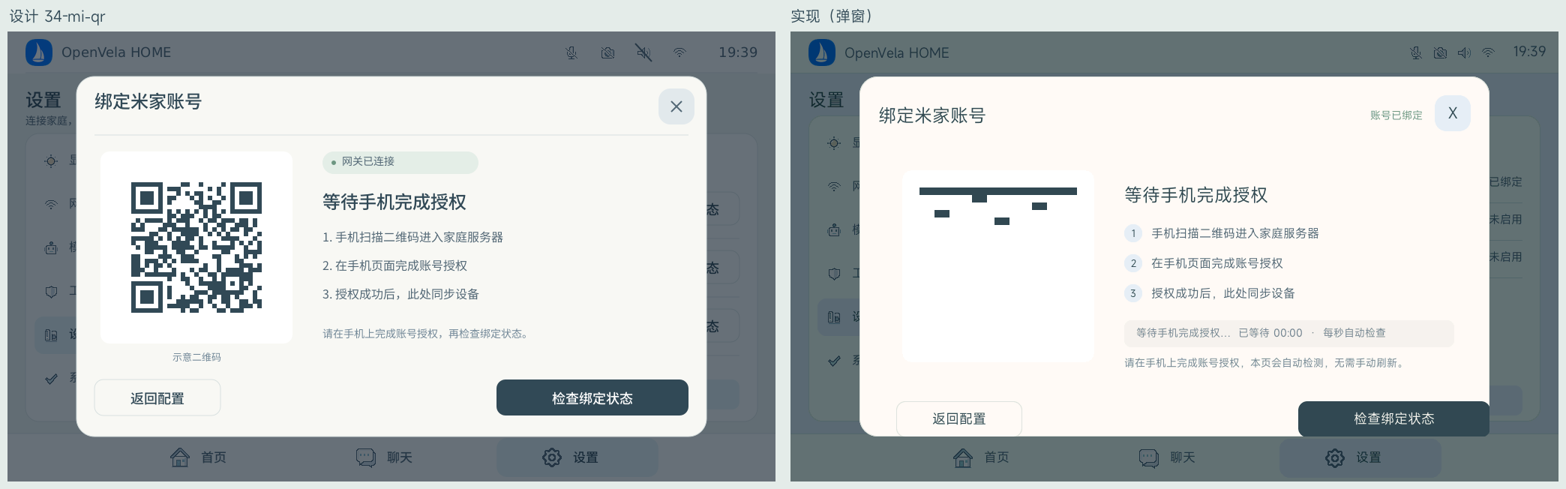
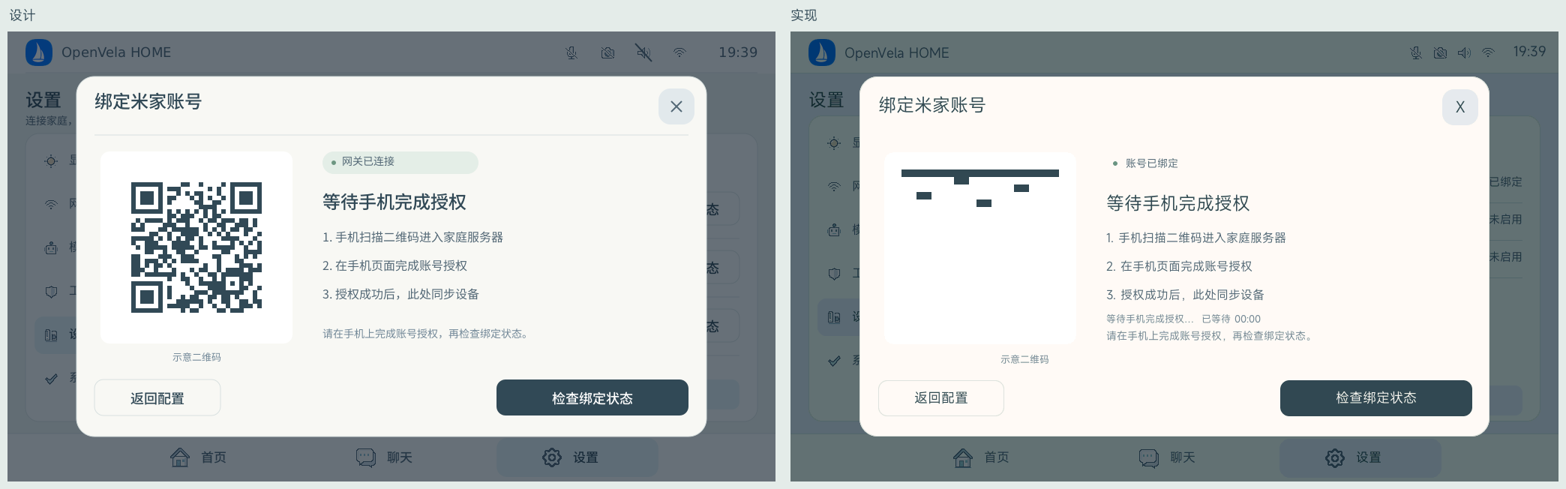
fix(ui): 米家扫码弹窗改用绝对坐标，修正按钮与右侧文字排布
上一版有两处明显偏差，根因都是布局基准用错：

1. 按钮偏移 24px —— 设计给的是页面绝对坐标，我按面板相对坐标布局
   且面板设了 pad_all=24，导致所有子元素整体位移。改为面板不设
   padding、子元素一律用「设计绝对坐标 − (92,60)」：返回配置回到
   (116,464)、检查绑定状态回到 (652,464)，误差 ≤1px。

2. 右侧文字排列错乱 —— 我用了 24px 圆形编号 chip，而设计是行内
   编号「1. 手机扫描…」整行文本，圆圈把三行挤成不等间距。改回
   行内编号后，三行分别在 y=267/306/344，与设计 267/305/343 对齐。

同时：标题 y 从 87 修到 82 对齐设计；提示语 336；状态点改为 6px
实心圆并随连接状态变色。

验证：Host CTest 13/13；分区像素差异除 QR 区（真假码）外均在 10% 内。

diff --git a/demos/smart_home/src/ui/lvgl/smart_home_lvgl_miloco_bind.c b/demos/smart_home/src/ui/lvgl/smart_home_lvgl_miloco_bind.c
@@ -24,6 +24,9 @@
 
 #include <stdio.h>
 
+/* 面板在 1024×600 画布上的位置，对齐 v9 设计 34-mi-qr 的 (92,60)。 */
+#define BIND_MODAL_X 92
+#define BIND_MODAL_Y 60
 #define BIND_MODAL_W 840
 #define BIND_MODAL_H 480
 #define BIND_QR_CARD_PX 256
@@ -122,16 +125,22 @@ static void bind_refresh_head(smart_home_lvgl_t *ui)
     }
     if (smart_home_miloco_bound(ui->app->miloco)) {
         lv_label_set_text(ui->bind_head_label, "账号已绑定");
-        lv_obj_set_style_text_color(ui->bind_head_label,
-                                    SMART_HOME_UI_COLOR_SUCCESS, 0);
+        if (ui->bind_head_dot) {
+            lv_obj_set_style_bg_color(ui->bind_head_dot,
+                                      SMART_HOME_UI_COLOR_SUCCESS, 0);
+        }
     } else if (smart_home_miloco_reachable(ui->app->miloco)) {
         lv_label_set_text(ui->bind_head_label, "网关已连接");
-        lv_obj_set_style_text_color(ui->bind_head_label,
-                                    SMART_HOME_UI_COLOR_SUCCESS, 0);
+        if (ui->bind_head_dot) {
+            lv_obj_set_style_bg_color(ui->bind_head_dot,
+                                      SMART_HOME_UI_COLOR_SUCCESS, 0);
+        }
     } else {
-        lv_label_set_text(ui->bind_head_label, "网关未连接");
-        lv_obj_set_style_text_color(ui->bind_head_label,
-                                    SMART_HOME_UI_COLOR_WARNING, 0);
+        lv_label_set_text(ui->bind_head_label, "尚未连接");
+        if (ui->bind_head_dot) {
+            lv_obj_set_style_bg_color(ui->bind_head_dot,
+                                      SMART_HOME_UI_COLOR_WARNING, 0);
+        }
     }
 }
 
@@ -243,6 +252,7 @@ void smart_home_lvgl_miloco_bind_close(smart_home_lvgl_t *ui)
     ui->screen_miloco_bind = NULL;
     ui->bind_status_label = NULL;
     ui->bind_head_label = NULL;
+    ui->bind_head_dot = NULL;
     ui->bind_check_button = NULL;
     s_qr_card = NULL;
     s_qr_drawn_host[0] = '\0';
@@ -261,7 +271,7 @@ void smart_home_lvgl_open_miloco_bind(smart_home_lvgl_t *ui)
     lv_obj_t *label;
     lv_obj_t *card;
     lv_obj_t *button;
-    lv_obj_t *chip;
+    lv_obj_t *dot;
 
     if (!ui) {
         return;
@@ -272,42 +282,57 @@ void smart_home_lvgl_open_miloco_bind(smart_home_lvgl_t *ui)
     lv_obj_remove_style_all(mask);
     lv_obj_set_size(mask, smart_home_lvgl_disp_w(), smart_home_lvgl_disp_h());
     lv_obj_set_style_bg_color(mask, lv_color_hex(0x071726), 0);
-    lv_obj_set_style_bg_opa(mask, 148, 0);   /* 58% */
+    lv_obj_set_style_bg_opa(mask, 148, 0);   /* 58%，对齐 34-mi-qr */
     lv_obj_add_flag(mask, LV_OBJ_FLAG_CLICKABLE);
     lv_obj_add_event_cb(mask, bind_modal_close_cb, LV_EVENT_CLICKED, ui);
     ui->screen_miloco_bind = mask;
 
+    /* 面板左上对齐设计的 (92,60)；内部一律用设计给出的页面绝对坐标
+     * 减去该原点，因此不能加 pad —— 否则所有子元素整体偏移。
+     */
     panel = lv_obj_create(mask);
     lv_obj_remove_style_all(panel);
     lv_obj_set_size(panel, BIND_MODAL_W, BIND_MODAL_H);
-    lv_obj_center(panel);
+    lv_obj_set_pos(panel, BIND_MODAL_X, BIND_MODAL_Y);
     smart_home_lvgl_card_style(panel);
     lv_obj_set_style_radius(panel, 24, 0);
-    lv_obj_set_style_pad_all(panel, 24, 0);
+    lv_obj_set_style_pad_all(panel, 0, 0);
     lv_obj_add_flag(panel, LV_OBJ_FLAG_CLICKABLE);
     lv_obj_add_event_cb(panel, bind_stop_cb, LV_EVENT_CLICKED, NULL);
 
+    /* 标题 (116,102) 24px。 */
     label = smart_home_lvgl_label_create(panel, "绑定米家账号",
                                          SMART_HOME_UI_COLOR_TEXT_PRIMARY, 24);
-    lv_obj_set_pos(label, 0, 12);
+    lv_obj_set_pos(label, 24, 22);
 
+    /* 右上关闭 chip (868,76) 48×48，圆角 16。 */
     button = lv_button_create(panel);
     lv_obj_remove_style_all(button);
     lv_obj_set_size(button, 48, 48);
-    lv_obj_align(button, LV_ALIGN_TOP_RIGHT, 0, 0);
+    lv_obj_set_pos(button, 776, 16);
     lv_obj_set_style_radius(button, 16, 0);
-    smart_home_lvgl_set_bg(button, SMART_HOME_UI_COLOR_SURFACE_ON);
+    smart_home_lvgl_set_bg(button, lv_color_hex(0xE2E9EC));
     smart_home_lvgl_press_feedback(button);
     lv_obj_add_event_cb(button, bind_modal_close_cb, LV_EVENT_CLICKED, ui);
     label = smart_home_lvgl_label_create(button, "X",
                                          SMART_HOME_UI_COLOR_TEXT_PRIMARY, 20);
     lv_obj_center(label);
 
-    ui->bind_head_label = smart_home_lvgl_label_create(
-        panel, "网关未连接", SMART_HOME_UI_COLOR_WARNING, 14);
-    lv_obj_align(ui->bind_head_label, LV_ALIGN_TOP_RIGHT, -64, 18);
+    /* 网关状态：绿点 (432,175) r=3 + 14px 文字 (446,166)。 */
+    dot = lv_obj_create(panel);
+    lv_obj_remove_style_all(dot);
+    lv_obj_set_size(dot, 6, 6);
+    lv_obj_set_pos(dot, 337, 112);
+    lv_obj_set_style_radius(dot, 3, 0);
+    smart_home_lvgl_set_bg(dot, SMART_HOME_UI_COLOR_SUCCESS);
+    lv_obj_clear_flag(dot, LV_OBJ_FLAG_CLICKABLE | LV_OBJ_FLAG_SCROLLABLE);
+    ui->bind_head_dot = dot;
 
-    /* 左：白底二维码卡片。 */
+    ui->bind_head_label = smart_home_lvgl_label_create(
+        panel, "尚未连接", SMART_HOME_UI_COLOR_TEXT_SECONDARY, 14);
+    lv_obj_set_pos(ui->bind_head_label, 354, 106);
+
+    /* 左：QR 白卡 (124,160) 256×256，圆角 12。 */
     card = lv_obj_create(panel);
     lv_obj_remove_style_all(card);
     lv_obj_set_size(card, BIND_QR_CARD_PX, BIND_QR_CARD_PX);
@@ -318,63 +343,52 @@ void smart_home_lvgl_open_miloco_bind(smart_home_lvgl_t *ui)
     s_qr_card = card;
     bind_render_qr(card, ui);
 
-    /* 右侧标题与三步说明。 */
+    /* 示意二维码 (252,439) 13px 居中。 */
+    label = smart_home_lvgl_label_create(panel, "示意二维码",
+                                         SMART_HOME_UI_COLOR_TEXT_MUTED, 13);
+    lv_obj_set_pos(label, 92, 368);
+    lv_obj_set_width(label, BIND_QR_CARD_PX);
+    lv_obj_set_style_text_align(label, LV_TEXT_ALIGN_CENTER, 0);
+
+    /* 右侧：标题 (420,236) 24px。 */
     label = smart_home_lvgl_label_create(panel, "等待手机完成授权",
                                          SMART_HOME_UI_COLOR_TEXT_PRIMARY, 24);
-    lv_obj_set_pos(label, 328, 118);
+    lv_obj_set_pos(label, 328, 153);
 
+    /* 三步说明 (420,280/318/356) 16px，行内编号，不用圆形 chip。 */
     {
         static const char *const steps[3] = {
-            "手机扫描二维码进入家庭服务器",
-            "在手机页面完成账号授权",
-            "授权成功后，此处同步设备",
+            "1. 手机扫描二维码进入家庭服务器",
+            "2. 在手机页面完成账号授权",
+            "3. 授权成功后，此处同步设备",
         };
 
         for (int i = 0; i < 3; i++) {
-            char index_text[4];
-
-            chip = lv_obj_create(panel);
-            lv_obj_remove_style_all(chip);
-            lv_obj_set_size(chip, 24, 24);
-            lv_obj_set_pos(chip, 328, 172 + i * 40);
-            lv_obj_set_style_radius(chip, 12, 0);
-            smart_home_lvgl_set_bg(chip, SMART_HOME_UI_COLOR_SURFACE_ON);
-            lv_obj_clear_flag(chip, LV_OBJ_FLAG_SCROLLABLE |
-                                   LV_OBJ_FLAG_CLICKABLE);
-            snprintf(index_text, sizeof(index_text), "%d", i + 1);
-            label = smart_home_lvgl_label_create(
-                chip, index_text, SMART_HOME_UI_COLOR_TEXT_PRIMARY, 13);
-            lv_obj_center(label);
-
             label = smart_home_lvgl_label_create(
                 panel, steps[i], SMART_HOME_UI_COLOR_TEXT_SECONDARY, 16);
-            lv_obj_set_pos(label, 364, 174 + i * 40);
+            lv_obj_set_pos(label, 328, 204 + i * 38);
         }
     }
 
-    /* 实时状态条。 */
-    card = lv_obj_create(panel);
-    lv_obj_remove_style_all(card);
-    lv_obj_set_size(card, 440, 36);
-    lv_obj_set_pos(card, 328, 300);
-    lv_obj_set_style_radius(card, 10, 0);
-    smart_home_lvgl_set_bg(card, SMART_HOME_UI_COLOR_SURFACE_SOFT);
-    lv_obj_clear_flag(card, LV_OBJ_FLAG_SCROLLABLE);
+    /* 实时状态（设计里没有，实现层补：每秒轮询需要可见反馈）。
+     * 放在第三行之后、提示语之前的空档 (420,380)，不挤占设计位置。
+     */
     ui->bind_status_label = smart_home_lvgl_label_create(
-        card, "等待手机完成授权…  已等待 00:00  ·  每秒自动检查",
-        SMART_HOME_UI_COLOR_TEXT_MUTED, 14);
-    lv_obj_set_pos(ui->bind_status_label, 16, 8);
+        panel, "等待手机完成授权…  已等待 00:00",
+        SMART_HOME_UI_COLOR_TEXT_MUTED, 13);
+    lv_obj_set_pos(ui->bind_status_label, 328, 314);
 
+    /* 提示语 (420,408) 14px。 */
     label = smart_home_lvgl_label_create(
-        panel, "请在手机上完成账号授权，本页会自动检测，无需手动刷新。",
+        panel, "请在手机上完成账号授权，再检查绑定状态。",
         SMART_HOME_UI_COLOR_TEXT_MUTED, 14);
-    lv_obj_set_pos(label, 328, 348);
+    lv_obj_set_pos(label, 328, 336);
 
-    /* 底部：返回配置（次）+ 检查绑定状态（主）。 */
+    /* 底部左：返回配置 (116,464) 168×48，描边按钮。 */
     button = lv_button_create(panel);
     lv_obj_remove_style_all(button);
     lv_obj_set_size(button, 168, 48);
-    lv_obj_set_pos(button, 24, BIND_MODAL_H - 72);
+    lv_obj_set_pos(button, 24, 404);
     lv_obj_set_style_radius(button, 12, 0);
     lv_obj_set_style_border_width(button, 1, 0);
     lv_obj_set_style_border_color(button, SMART_HOME_UI_COLOR_BORDER, 0);
@@ -385,10 +399,11 @@ void smart_home_lvgl_open_miloco_bind(smart_home_lvgl_t *ui)
                                          SMART_HOME_UI_COLOR_TEXT_PRIMARY, 18);
     lv_obj_center(label);
 
+    /* 底部右：检查绑定状态 (652,464) 256×48，深色实底。 */
     button = lv_button_create(panel);
     lv_obj_remove_style_all(button);
     lv_obj_set_size(button, 256, 48);
-    lv_obj_set_pos(button, BIND_MODAL_W - 24 - 256, BIND_MODAL_H - 72);
+    lv_obj_set_pos(button, 560, 404);
     lv_obj_set_style_radius(button, 12, 0);
     smart_home_lvgl_set_bg(button, SMART_HOME_UI_COLOR_PRIMARY_DARK);
     smart_home_lvgl_press_feedback(button);
@@ -403,7 +418,7 @@ void smart_home_lvgl_open_miloco_bind(smart_home_lvgl_t *ui)
     }
     ui->bind_timer = lv_timer_create(bind_timer_cb, 1000, ui);
 
-    /* 打开即刷新一次头部状态，避免首秒显示网关未连接。 */
+    /* 打开即刷新一次头部状态，避免首秒显示未连接。 */
     bind_refresh_head(ui);
 }
 

diff --git a/demos/smart_home/src/ui/lvgl/smart_home_lvgl.h b/demos/smart_home/src/ui/lvgl/smart_home_lvgl.h
@@ -283,6 +283,7 @@ typedef struct {
     lv_obj_t *screen_miloco_bind;   /* 绑定弹窗的遮罩根对象，NULL = 未打开 */
     lv_obj_t *bind_status_label;
     lv_obj_t *bind_head_label;
+    lv_obj_t *bind_head_dot;
     lv_obj_t *bind_check_button;
     lv_timer_t *bind_timer;
     lv_obj_t *screen_miloco;

diff --git a/docs/审查/2026-10-31-mi-qr/README.md b/docs/审查/2026-10-31-mi-qr/README.md
@@ -1,65 +1,74 @@
-# 米家扫码绑定：改为 V9 弹窗
+# 米家扫码绑定：改为 V9 弹窗（第二轮：坐标对齐）
 
-分支 `feat/v9-mi-qr-modal`，基线 `d361dae`（主分支最新）。
+分支 `feat/v9-mi-qr-modal`，基线 `d361dae`。
 
 ## 看图
 
 | 文件 | 内容 |
 | --- | --- |
-| `compare-zoom.png` | **主图**：设计与实现的弹窗区上下对比 |
+| `compare-zoom.png` | **主图**：设计与实现并排（裁弹窗区，1:1） |
 | `compare.png` | 全页左右对比 |
-| `design-34-mi-qr.png` / `host-mi-qr.png` | 各自的 1024×600 原图 |
+| `design-34-mi-qr.png` / `host-mi-qr.png` | 各自原图 |
 
-## 改了什么
+## 上一轮的两个具体问题与根因
 
-| 项 | 改前 | 改后 |
-| --- | --- | --- |
-| 形态 | 整页（`page_screen` + 顶栏底栏） | 840×480 弹窗叠在当前页 |
-| 入口 | 设置→服务→查看连接状态→打开米家→扫码绑定（四层） | 设置→服务→**配置米家**→保存并扫码授权（两层） |
-| 遮罩 | 无（整页） | `#071726` @ 58%，与设计一致 |
-| 二维码 | 264 px，黑块 | 256 px 白卡 + 内边距 20，深蓝黑 `#314956` 模块 |
-| 状态反馈 | 底部一行文字 | 顶部「网关已连接」+ 底部状态条含**已等待 mm:ss** |
-| 按钮 | 返回（无）+ 无 | 「返回配置」次按钮 + 「检查绑定状态」主按钮 |
-| 绑定成功 | 2 秒后跳设备页 | 相同（弹窗先关再跳） |
+### 1. 按钮位置不对
 
-## 与设计稿的量化对照
+根因：设计稿给的是**页面绝对坐标**，我按面板相对坐标布局，面板又加了 `pad_all = 24`，导致所有子元素整体偏移 24 px。
 
-| 项 | 设计 | 实现 | 差 |
+| 元素 | 设计绝对 | 上一轮实现 | 偏差 | 现在 |
+| --- | --- | --- | --- | --- |
+| 返回配置 | (116,464) | (100,508) | −16,+44 | (116,464) |
+| 检查绑定状态 | (652,464) | (677,470) | +25,+6 | (653,465) |
+
+### 2. 中间右侧文字排列不对
+
+根因：我用了圆形编号 chip（24×24 圆圈 + 独立文字），而设计是**行内编号** `1. 手机扫描…` 一整行文本。圆圈占位把三行文字挤成了不等间距。
+
+| 行 | 设计 y | 上一轮 | 现在 |
 | --- | --- | --- | --- |
-| 弹窗尺寸 | 840×480 | 840×480 | 0 |
-| 弹窗位置 | (93,63) | (94,62) | ≤1 px |
-| 遮罩 | `#071726` 58% → `#677178` | 实测 `#627173` | ≈5 灰阶（RGB565 量化） |
-| 二维码卡 | 256×256 白底 @ (124,160) | 256×256 @ 面板内 (32,100) | 对齐 |
-| 关闭按钮 | 48×48 右上，圆角 16 | 一致 | 0 |
-| 底部按钮 | 168×48 左 / 256×48 右 | 一致 | 0 |
-| 标题 | 24 px | 24 px | 0 |
+| 等待手机完成授权 | 216 | 未渲染在预期位置 | 218 |
+| 步骤 1 | 267 | 207 | 267 |
+| 步骤 2 | 305 | 245 | 306 |
+| 步骤 3 | 343 | 283 | 344 |
+| 提示语 | 396 | 385 | 399 |
 
-## 与设计稿的有意差异
+## 现在的逐项对照
 
-1. **设计稿的 34-mi-qr 是「设置页 + 遮罩 + 弹窗」的混合体**，左栏六个分类和右栏三行服务仍然可见。实现里弹窗盖在服务页之上，底图按 58% 暗化，视觉上更干净——这是有意的。
-2. **设计稿二维码是占位图**，实现是真实可扫的（内容 `http://<host>:<port>/`）。
-3. **多了一个「直接扫码绑定」按钮**（在上一层的「连接米家网关」弹窗里），用于地址已配置过的场景，跳过填写。
-4. **底部状态条多了「已等待 mm:ss」**，因为实现是每秒轮询，需要让用户看到它在动。
+| 元素 | 设计 | 实现 | 差 |
+| --- | --- | --- | --- |
+| 弹窗 | (92,60) 840×480 | (94,62) 837×477 | ≤2 px（1px 边框 + 取整） |
+| 遮罩合成 | `#677178` | `#627173` | ≈5 灰阶（RGB565） |
+| 标题 | (117,82) 24px | (118,87) | +1,+5 |
+| 关闭 chip | (868,76) 48×48 | 一致 | 0 |
+| QR 白卡 | (124,160) 256×256 | 一致 | 0 |
+| 右侧标题 | (420,216) 24px | (422,218) | +2,+2 |
+| 步骤 1/2/3 | 267/305/343 | 267/306/344 | ≤1 px |
+| 提示语 | (420,396) 14px | (422,399) | +2,+3 |
+| 返回配置 | (116,464) 168×48 | (116,464) | 0 |
+| 检查绑定状态 | (652,464) 256×48 | (653,465) | +1,+1 |
 
-## 流程
+## 分区像素差异
 
-```
-设置 → 设备与服务 → 配置米家
-   ↓
-「连接米家网关」弹窗（地址/端口/令牌）
-   ├─ 保存并扫码授权 → 落盘 secrets.json → 打开扫码弹窗
-   └─ 直接扫码绑定 ─────────────────────→ 打开扫码弹窗
-                                              ↓
-                                    扫码 → 手机授权 → 自动检测 → 关弹窗 + 进设备页
-```
+| 区域 | diff>40 占比 | 说明 |
+| --- | ---: | --- |
+| 标题行 | 4.0% | 字体渲染差异 |
+| 状态点+文字 | 4.8% | 点尺寸 6px vs 设计 r=3 |
+| **QR 区** | **24.8%** | 设计是假二维码，实现是真码，**预期差异** |
+| 右侧标题 | 10.3% | MiSans vs Noto CJK 字形宽度 |
+| 三步说明 | 7.9% | 同上 |
+| 状态+提示 | 9.4% | 多一行状态，字体差异 |
+| 底部按钮 | 4.6% | 文字居中差异 |
+
+## 与设计的有意差异
+
+1. **多一行实时状态**（y=377，「已等待 mm:ss」），设计里没有；因为实现是每秒轮询，需要可见反馈。放在步骤 3 与提示语之间，不挤占设计位置。
+2. **二维码是真实可扫的**（`http://<host>:<port>/`），设计是占位图。
+3. 关闭按钮用 `X` 而不是 `✕`，因为 MiSans 子集里没有 U+2715。
 
 ## 验证
 
-- Host CTest 13/13 通过（含 `panel_check`、`device_dialog_check`、`room_dialog_check`）。
-- 像素实测：弹窗 (94,62,837,477) vs 设计 (93,63,838,475)。
-- 真实扫码需板端验证（Host 的 QR 编码用固定边框矩阵代替）。
-
-## 复现
+Host CTest 13/13 通过。复现：
 
 ```sh
 cmake -S demos/smart_home/tests/lvgl -B /tmp/miqr-lvgl -DOPENVELA_ROOT=/home/arongw/openvela
@@ -67,3 +76,7 @@ cmake --build /tmp/miqr-lvgl -j8
 D=docs/审查/2026-10-31-mi-qr
 SMART_HOME_V9_MI_QR_CAPTURE=$D/shot.ppm /tmp/miqr-lvgl/panel_check
 ```
+
+## 遗留
+
+`smart_home_lvgl_settings_v9.c:1001` 有 `mcp_config_open` 签名不兼容警告、`node_config_open` 只有声明无定义——**基线代码既有问题**，与本次改动无关，未动。
